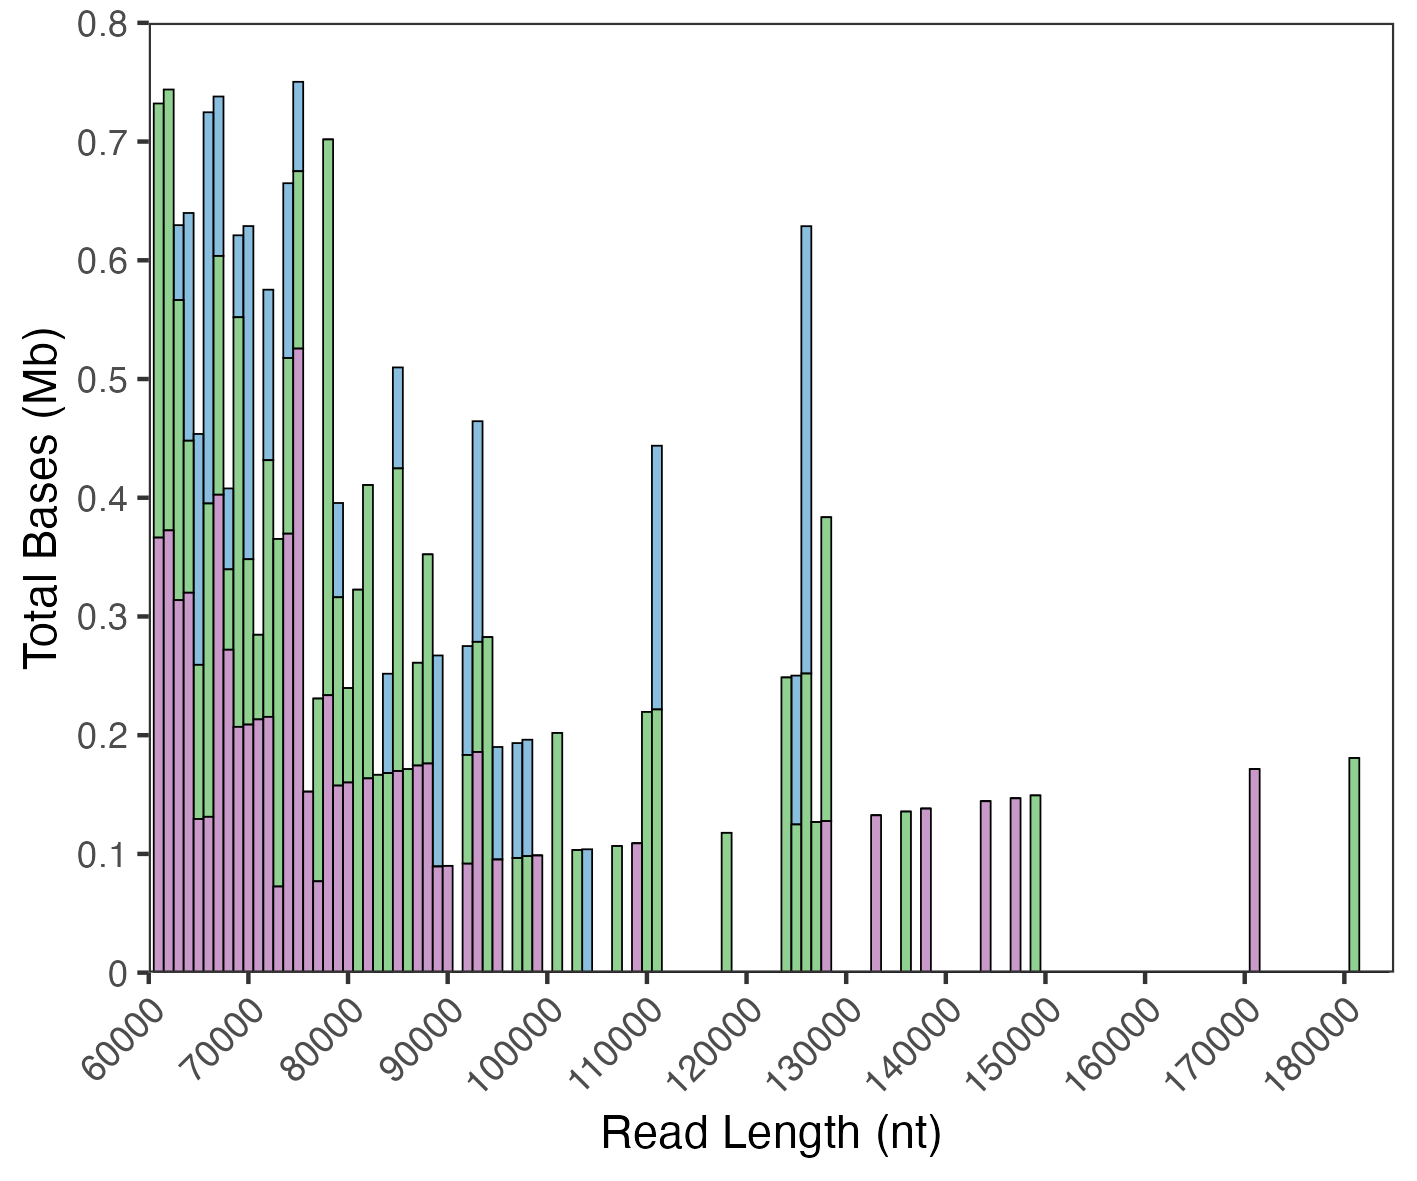
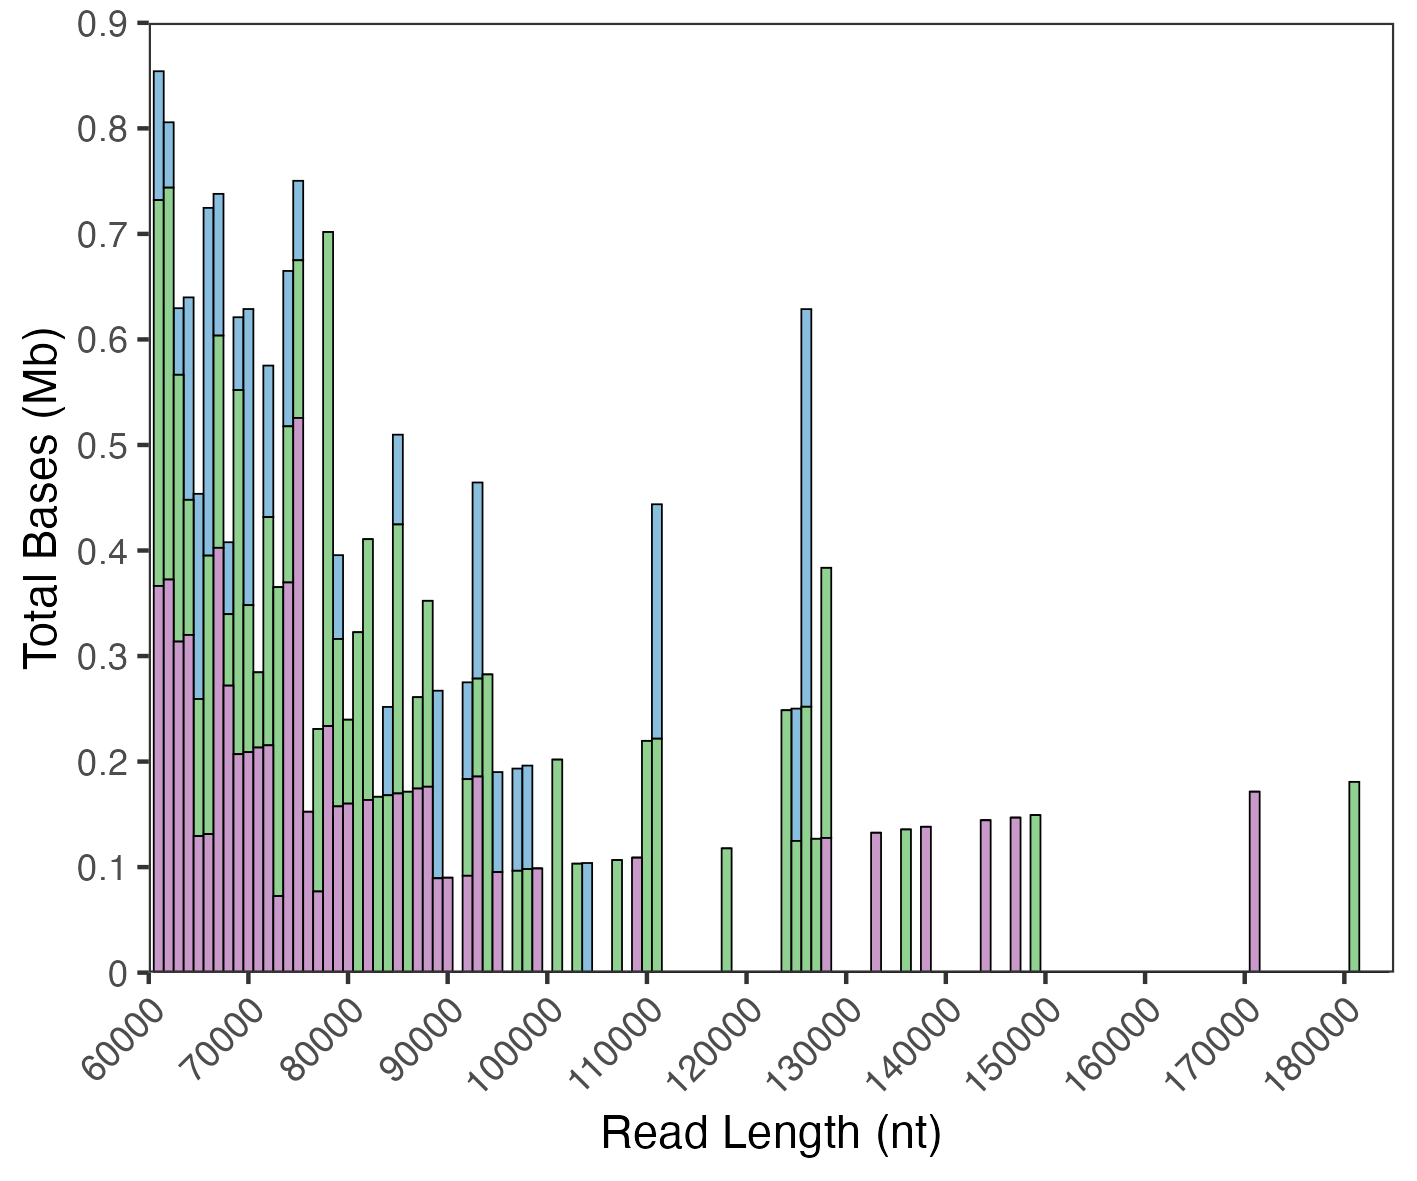
The public update.

diff --git a/README.md b/README.md
@@ -2,7 +2,7 @@
 
 The figures and content in this repository are derived from the following publication:
 
-**Wennmann, J.T. (submitted). Nanopore reads spanning the whole genome of arthropod-infecting large dsDNA viruses of the class Naldaviricetes enable assembly-free sequence analysis. Journal of General Virology, xxx xxx xxx. [DOI link to the publication]**
+**Wennmann, J.T. (submitted). Nanopore reads spanning the whole genome of arthropod-infecting large dsDNA viruses of the class Naldaviricetes enable assembly-free sequence analysis. [DOI link to the publication]**
 
 ## Aim of this repository
 
@@ -34,6 +34,10 @@ Analysing the availability of Illumina and Nanopore data sets on NCBI SRA is a b
 
 ## Read length distribution
 
-![](output/read_length_distribution/length_distribution1.png){width="400"}
+To determine the length of nanopore reads from a sequencing run, it is best to create a distribution of sequenced DNA fragments. In the present example, three data sets of BmNPV-Th2 (family Baculoviridae), OrNV-DUG42 (family Nudiviridae) and WSSV-JP04 (family Nimaviridae) were analysed with regard to their length distribution.
 
-![](output/read_length_distribution/length_distribution2.png){width="400"}
+[Click here for the R code used to create the figure.](https://github.com/wennj/naldv-whole-genome-reads/blob/main/2_length_quality_statistics.Rmd)
+
+![](output/read_length_distribution/length_distribution_combined.png)
+
+\<under construction\>
